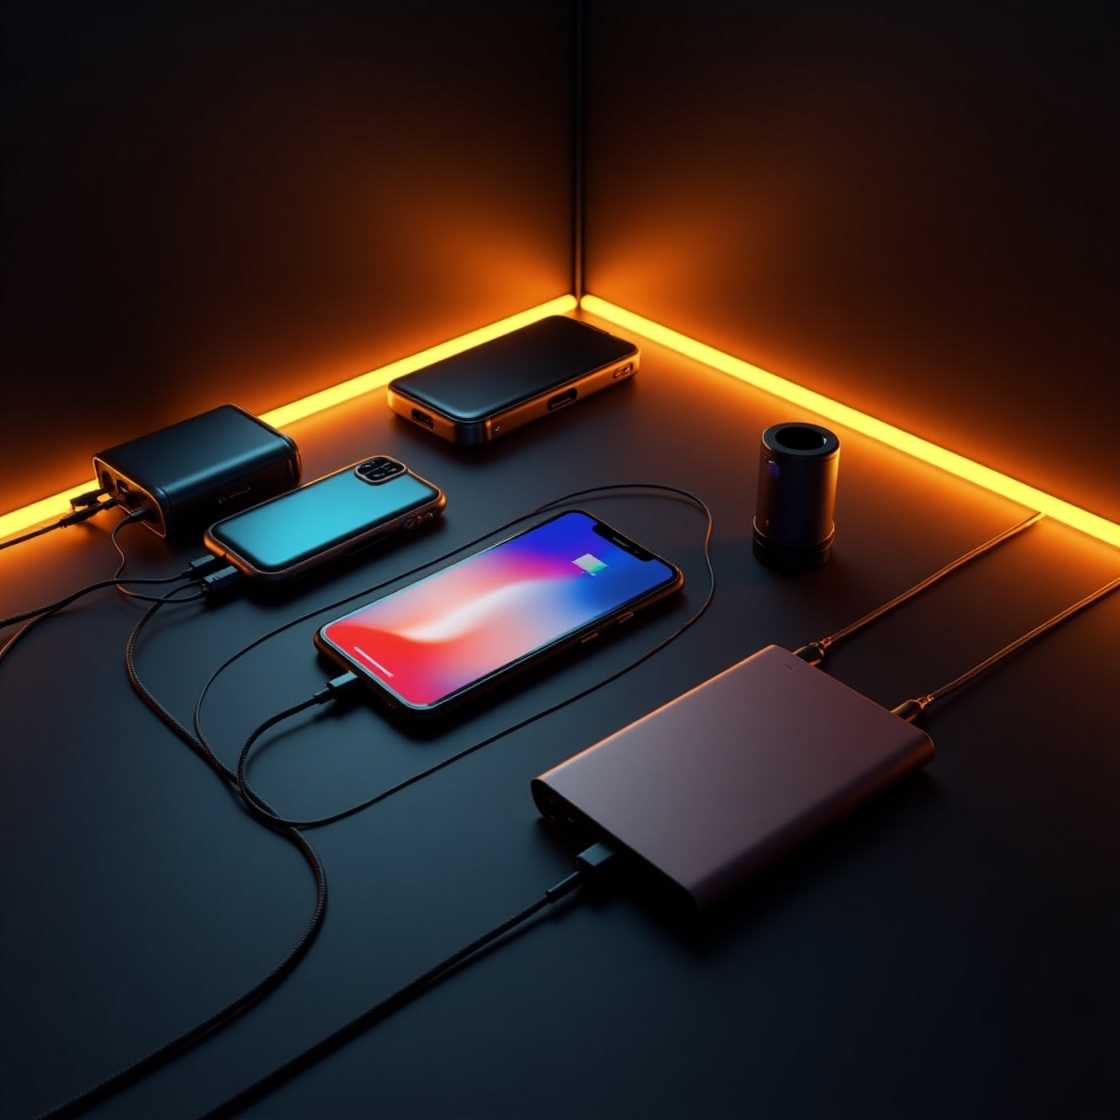
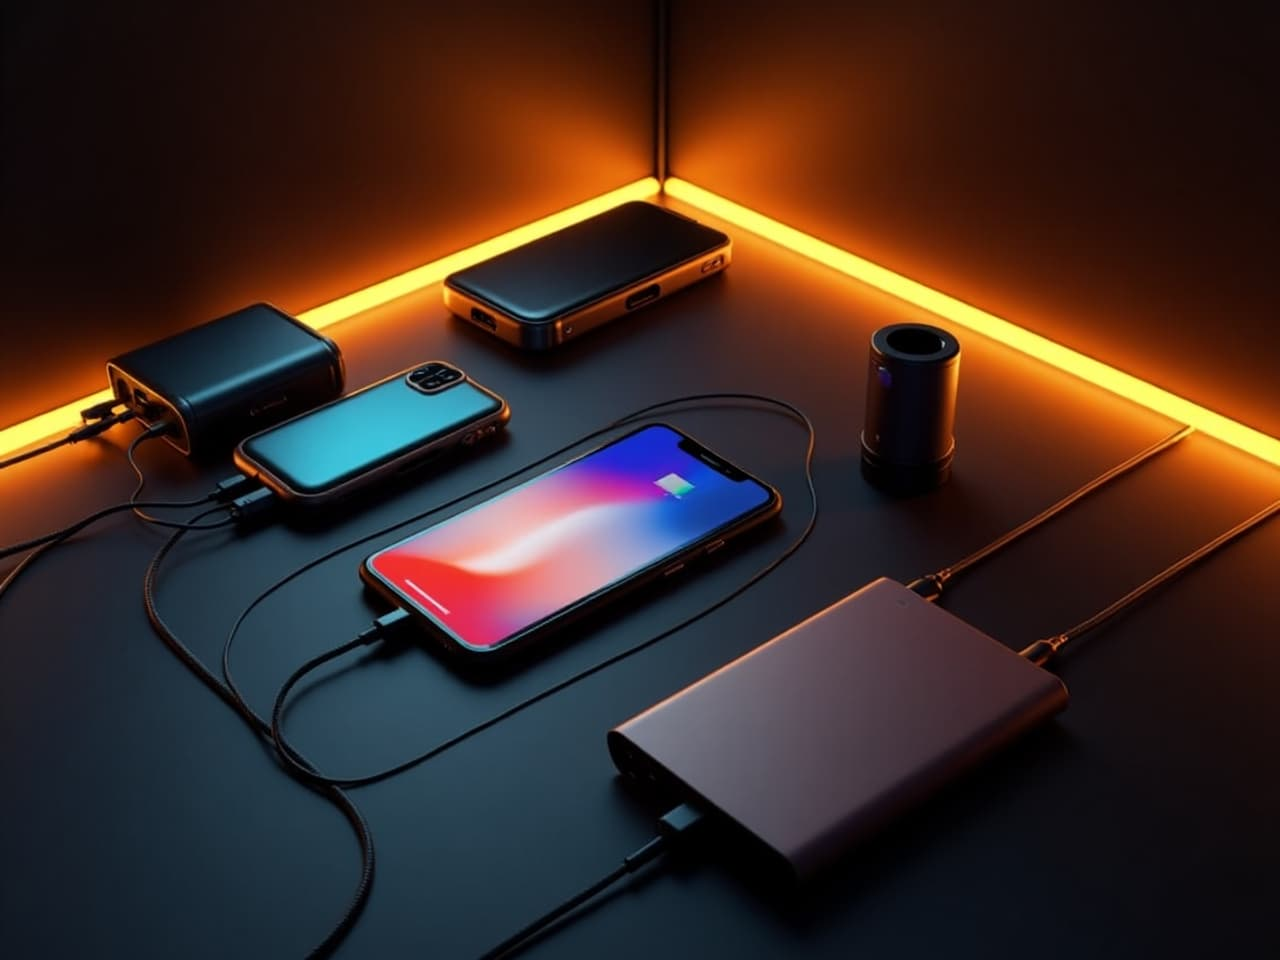
Compress Marine World product images and three homepage tiles (batch 3 of 6)
Marine: 9 files, 16.5MB -> 0.66MB. All opaque 1500px PNGs -> 1024px
JPEG q72 with corrected extensions; 9 image paths repointed on the
marine-world page, nothing else references them.

Homepage tiles: tech-audio.jpg 650 -> 86KB and accessories-power.jpg
412 -> 55KB are cropped to 1280x960 (4:3) at q75 to match phones.jpg
and more.jpg. fishing.jpg stays 1:1 (960x960, q68, 425 -> 126KB): it
is a four-panel collage and a 4:3 crop slices the tops and bottoms of
the two circular boat-parts panels.

Verified: build clean, 9/9 assets 200, all 19 marine product images
decode, five tiles decode at their new dimensions, no console errors,
marine product data otherwise byte-identical.

Claude-Session: https://claude.ai/code/session_01WCZ6zZmycjekGuUJ8TJAnH

diff --git a/app/Categories/marine-world/page.tsx b/app/Categories/marine-world/page.tsx
@@ -48,7 +48,7 @@ export default function MarineWorldPage() {
     {
       id: 'landhoow-bilge-pump',
       name: 'Landhoow Boat Bilge Water Pump',
-      image: '/images/Products/marine/landhoow-boat-bilge-water-pump.png',
+      image: '/images/Products/marine/landhoow-boat-bilge-water-pump.jpg',
       price: 150.00,
       priceRange: '$150 up',
       category: 'boat-accessories',
@@ -107,7 +107,7 @@ export default function MarineWorldPage() {
       id: 5,
       name: "Jig Assist Hooks - 5X Strong",
       price: 25.00,
-      image: "/images/Products/fishing/jig-assist-hooks.png",
+      image: "/images/Products/fishing/jig-assist-hooks.jpg",
       description: "Heavy-duty 5X strong assist hooks with durable braided cord",
       priceRange: '$6 up',
       category: "fishing-gear",
@@ -122,7 +122,7 @@ export default function MarineWorldPage() {
       id: 6,
       name: "Mustad UltraPoint Big Gun Hooks",
       price: 10.00,
-      image: "/images/Products/fishing/mustad-big-gun-hooks.png",
+      image: "/images/Products/fishing/mustad-big-gun-hooks.jpg",
       description: "Premium Mustad hooks with UltraPoint technology",
       priceRange: '$6 up',
       category: "fishing-gear",
@@ -189,7 +189,7 @@ export default function MarineWorldPage() {
     {
       id: 'yamaha-power-head-gasket',
       name: 'Yamaha Power Head Gasket Kit',
-      image: '/images/Products/marine/yamaha-power-head-gasket.png',
+      image: '/images/Products/marine/yamaha-power-head-gasket.jpg',
       price: 450.00,
       category: 'boat-parts',
       availability: 'In Stock',
@@ -240,7 +240,7 @@ export default function MarineWorldPage() {
     {
       id: 'fuel-primer-bulb',
       name: 'Fuel Primer Bulb Pump',
-      image: '/images/Products/marine/fuel-primer-bulb.png?v=2',
+      image: '/images/Products/marine/fuel-primer-bulb.jpg?v=2',
       price: 75.00,
       priceRange: '$75.00',
       category: 'boat-parts',
@@ -255,7 +255,7 @@ export default function MarineWorldPage() {
     {
       id: 'fuel-clip',
       name: 'Fuel Clip',
-      image: '/images/Products/marine/fuel-clip.png?v=2',
+      image: '/images/Products/marine/fuel-clip.jpg?v=2',
       price: 60.00,
       priceRange: '$60.00',
       category: 'boat-parts',
@@ -269,7 +269,7 @@ export default function MarineWorldPage() {
     {
       id: 'fuel-line-kit',
       name: 'Fuel Line Kit',
-      image: '/images/Products/marine/fuel-line-kit.png?v=2',
+      image: '/images/Products/marine/fuel-line-kit.jpg?v=2',
       price: 250.00,
       priceRange: '$250.00',
       category: 'boat-parts',
@@ -287,7 +287,7 @@ export default function MarineWorldPage() {
       id: 8,
       name: "Fishing Reels YoYo",
       price: 6.00,
-      image: "/images/Products/marine/fishing-reels-yoyo.png",
+      image: "/images/Products/marine/fishing-reels-yoyo.jpg",
       description: "Durable fishing reels yoyo. Multiple colors and sizes available.",
       priceRange: '$6 up',
       category: "fishing-lures",  
@@ -303,7 +303,7 @@ export default function MarineWorldPage() {
       id: 16,
       name: "Fishing Reel Spinner",
       price: 65.00,
-      image: "/images/Products/fishing/mustad-lures.png",
+      image: "/images/Products/fishing/mustad-lures.jpg",
       description: "Proven mahi-mahi and dorado trolling lures",
       category: "fishing-lures",
       specs: {
